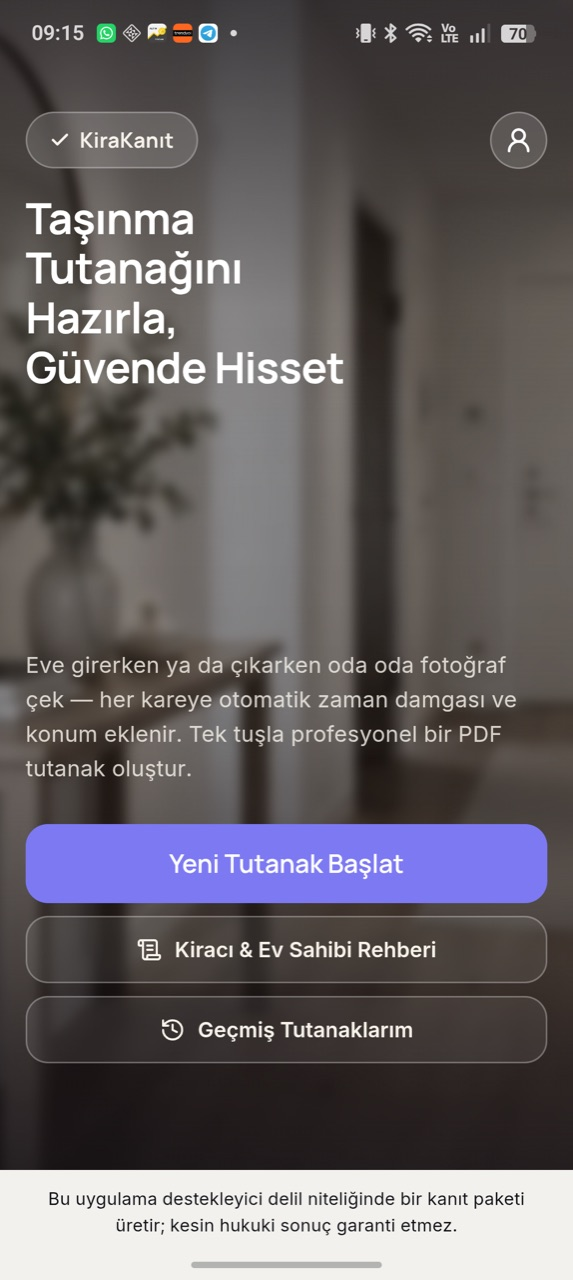
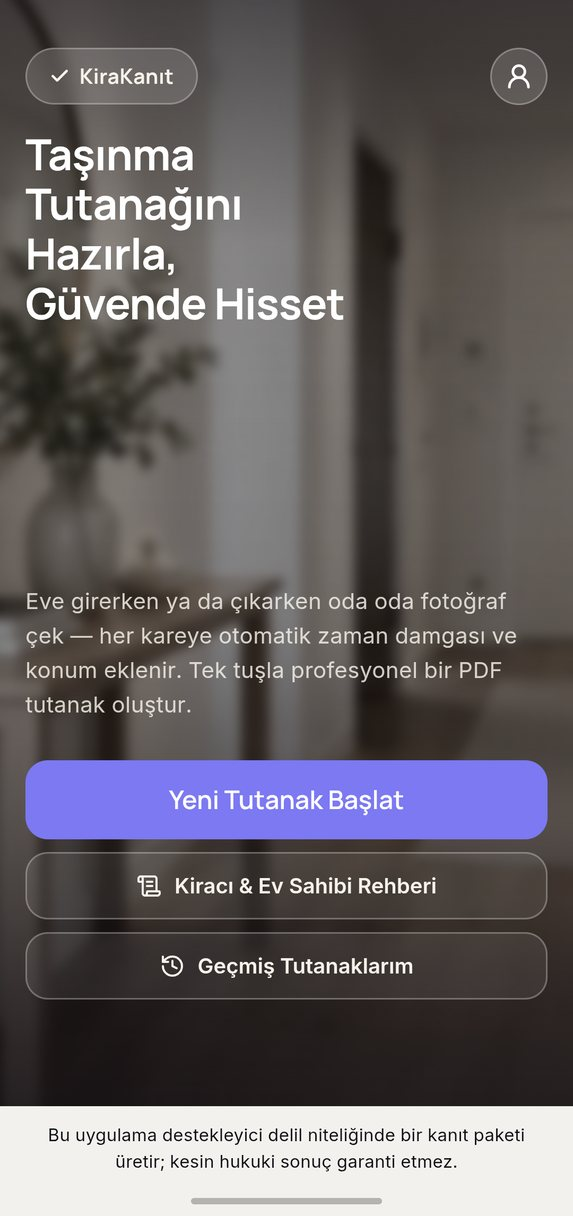
Ekran görüntülerinden kişisel bildirim çubuğunu kırp, mühür konumunu düzelt

diff --git a/index.html b/index.html
@@ -64,7 +64,7 @@
       </div>
 
       <div class="hero-visual">
-        <div class="phone"><img src="assets/img/ekran-acilis.jpg" width="573" height="1280" alt="KiraKanıt uygulamasının açılış ekranı. Yeni Tutanak Başlat, Kiracı ve Ev Sahibi Rehberi ve Geçmiş Tutanaklarım düğmeleri görünüyor."></div>
+        <div class="phone"><img src="assets/img/ekran-acilis.jpg" width="573" height="1216" alt="KiraKanıt uygulamasının açılış ekranı. Yeni Tutanak Başlat, Kiracı ve Ev Sahibi Rehberi ve Geçmiş Tutanaklarım düğmeleri görünüyor."></div>
         <figure class="stamp-card">
           <div class="photo">
             <img src="assets/img/salon.jpg" width="512" height="512" alt="Uygulamayla çekilmiş örnek bir salon fotoğrafı.">
@@ -111,8 +111,8 @@
   <section class="section">
     <div class="wrap features">
       <div class="screens">
-        <div class="phone"><img src="assets/img/ekran-imza.jpg" width="573" height="1280" loading="lazy" alt="İmza ekranı. Kiracı ve ev sahibi için ayrı imza alanları ve teslim edilen anahtar sayısı alanı."></div>
-        <div class="phone"><img src="assets/img/ekran-tamamlandi.jpg" width="573" height="1280" loading="lazy" alt="Tamamlandı ekranı. PDF'i İndir, Paylaş ve Kira Sözleşmesi Oluştur düğmeleri."></div>
+        <div class="phone"><img src="assets/img/ekran-imza.jpg" width="573" height="1216" loading="lazy" alt="İmza ekranı. Kiracı ve ev sahibi için ayrı imza alanları ve teslim edilen anahtar sayısı alanı."></div>
+        <div class="phone"><img src="assets/img/ekran-tamamlandi.jpg" width="573" height="1216" loading="lazy" alt="Tamamlandı ekranı. PDF'i İndir, Paylaş ve Kira Sözleşmesi Oluştur düğmeleri."></div>
       </div>
       <div>
         <div class="section-head">

diff --git a/assets/site.css b/assets/site.css
@@ -264,8 +264,8 @@ h1, h2, h3 {
 
 .seal {
   position: absolute;
-  top: -38px;
-  right: -58px;
+  top: -36px;
+  right: -96px;
   width: 116px;
   height: 116px;
   color: var(--seal);
@@ -282,14 +282,14 @@ h1, h2, h3 {
 
 @media (max-width: 880px) {
   .hero .wrap { grid-template-columns: 1fr; }
-  .hero-visual { width: min(260px, 64vw); margin-bottom: 56px; }
+  .hero-visual { width: min(260px, 64vw); margin-top: 56px; margin-bottom: 56px; }
   .stamp-card { left: -40px; width: 220px; }
-  .seal { top: -30px; right: -34px; width: 96px; height: 96px; }
+  .seal { top: -72px; right: -40px; width: 96px; height: 96px; }
 }
 
 @media (max-width: 420px) {
   .stamp-card { left: -18px; width: 200px; }
-  .seal { right: -14px; }
+  .seal { right: -20px; }
 }
 
 /* Bölümler */
